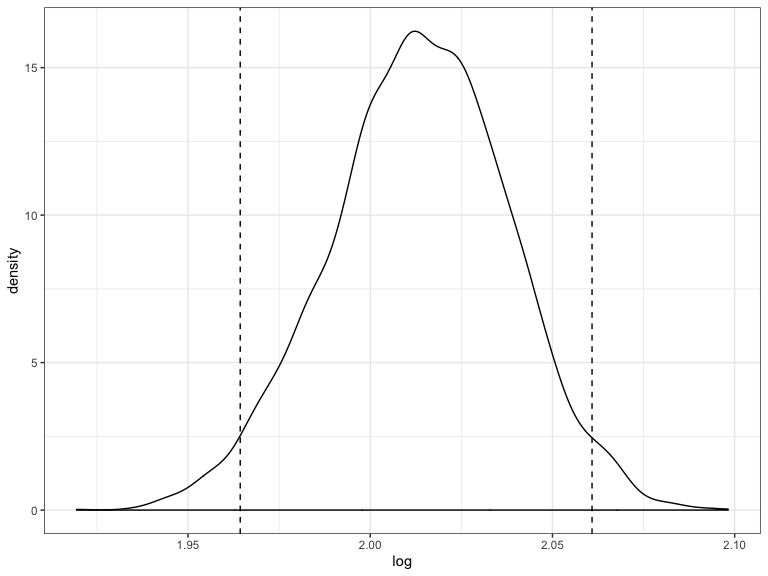
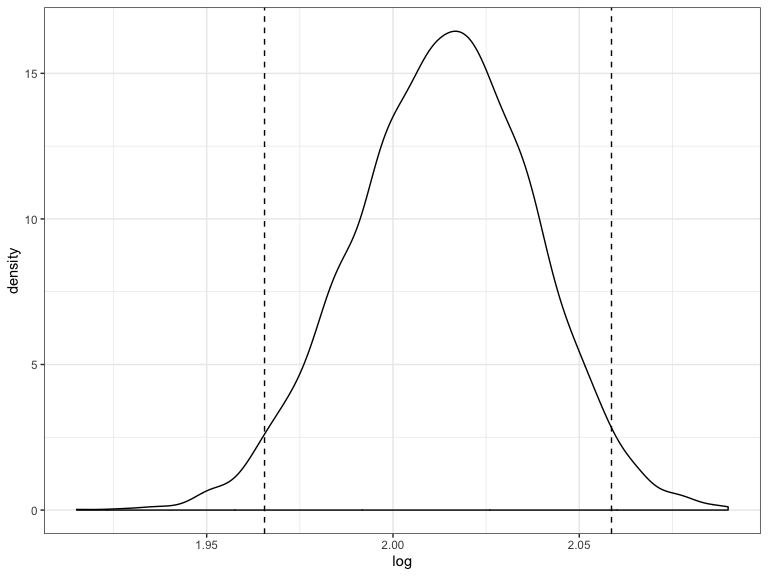
Problem 2 comment and CI

diff --git a/p8105_hw6_gl2677.md b/p8105_hw6_gl2677.md
@@ -150,3 +150,18 @@ results %>%
 ```
 
 <img src="p8105_hw6_gl2677_files/figure-gfm/plot estimate-2.png" width="90%" />
+
+  - The distribution of `r_squared` is nearly normal distribution with
+    slight left skewness. The peak density is obtained when `r_squared`
+    is approximately 0.91, and the range of `r_squared` is from 0.8697
+    to 0.9431.
+
+  - The distribution of `log(beta_0*beta_1)` is nearly normal
+    distribution and the peak density is obtained when
+    `log(beta_0*beta_1)` is approximately 2.01, and the range of
+    `r_squared` is from 1.918 to 2.106.
+
+  - The 95% confidence interval for `r_squared` is (0.894, 0.927)
+
+  - The 95% confidence interval for `log(beta_0*beta_1)` is (1.966,
+    2.059)
